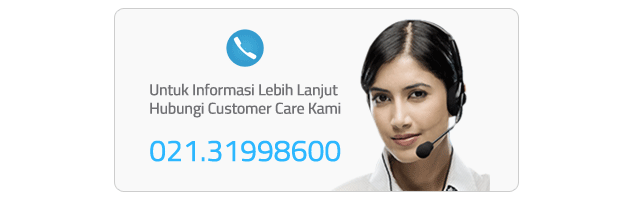
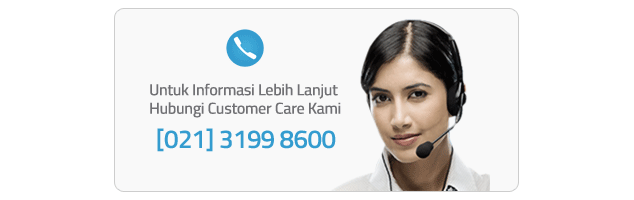
frontpage 85%

Changed region(s): [[0.2098, 0.63, 0.5394, 0.81]]

diff --git a/addons/shared_addons/modules/products/js/product_form.js b/addons/shared_addons/modules/products/js/product_form.js
@@ -38,7 +38,7 @@ $(function () {
 function process_attch(obj){
 	var formData = new FormData($('#product-form')[0]);
 	
-	$inp_elm = $(obj).parent();
+	$inp_elm = $(obj).parent('.input');
 	
 	$.ajax({
 		type: 'POST',

diff --git a/addons/shared_addons/modules/products/views/admin/product_form.php b/addons/shared_addons/modules/products/views/admin/product_form.php
@@ -109,13 +109,13 @@
 								<li>
 									<label for="poster">Upload Poster</label>
 									<br/>
-									<div id="img-poster" style="width:100%;">
+									<div id="img-poster" style="width:100%; margin:10px 0;">
 										<?php if($poster != NULL){ ?>
 											<img style="width:300px;" src="<?php echo Files::$path . $poster['filename'];?>" title="<?php echo $poster['name']; ?>" />
 										<?php } ?>
 									</div>
 									<br/>
-									<div class="input" style="border:1px solid #EEE; border-radius:5px; margin-top:20px;">
+									<div class="input" style="border:1px solid #EEE; border-radius:5px;">
 										<div class="msg-ajax"></div>
 										<?php echo form_upload('poster','','id="poster" style="margin:10px 5px 10px 10px;"'); ?> &nbsp; 
 										<a onclick="process_attch(this);" class="button" style="padding:5px 10px 4px 10px;">Upload</a>
@@ -129,16 +129,15 @@
 										<?php echo form_upload('attch','','id="attch" style="margin:10px 5px 10px 10px;"'); ?> &nbsp; 
 										<?php echo form_input('attchname', '', 'id="attchname" placeholder="File Rename" style="margin:10px 10px 10px 5px;"'); ?> &nbsp;
 										
-										<div class="input small-side" style="margin:20px 10px 10px 10px;">
-											<label for="attchdisptype">Attachment Display</label><br>
+										<div class="input small-side clearfix" style="margin:10px;">
+											<label for="attchdisptype">Display</label><br>
 											<?php echo form_dropdown('attchdisptype', array(
 												'attach' => 'Attach on Page',
 												'link' => 'URL Link',
 												'popup' => 'Pop-up Window',
 											), 'attach') ?>
 										</div>
-										<br/>
-										<a onclick="process_attch(this);" class="button" style="padding:5px 10px 4px 10px;">Upload</a>
+										<a onclick="process_attch(this);" class="button" style="margin:10px; padding:5px 10px 4px 10px;">Upload</a>
 									</div>
 									
 									<div id="attch-files" style="margin:20px 0;">

diff --git a/addons/shared_addons/modules/products/controllers/admin.php b/addons/shared_addons/modules/products/controllers/admin.php
@@ -257,22 +257,27 @@ class Admin extends Admin_Controller {
 		
 		//Get products files json data
 		$files_data = $this->parse_files_json($pid, true);
-		
-		if($prod_data['poster_id'] != ''){
-			Files::delete_file($prod_data['poster_id']);
-		}
+
 			
 		if($input_name == 'poster'){
 			$result = Files::upload($files_data['folder'], $prod_data['slug'], 'poster', 1920, false, true);
 			
-			$upload_data = $this->parse_file_data($result['data']);
-			foreach($upload_data as $key=>$val){
-				$files_data['poster'][$key] = $val;
-			}
+			if($result['status']){
+				if($prod_data['poster_id'] != ''){
+					Files::delete_file($prod_data['poster_id']);
+				}
+				
+				$upload_data = $this->parse_file_data($result['data']);
+				foreach($upload_data as $key=>$val){
+					$files_data['poster'][$key] = $val;
+				}
+				
+				$this->products_m->update($prod_data['id'], array('files'=>json_encode($files_data)));
 			
-			$this->products_m->update($prod_data['id'], array('files'=>json_encode($files_data)));
-		
-			$respond['message'] = 'Poster has been uploaded';
+				$respond['message'] = 'Poster has been uploaded';
+			}else{
+				$respond['message'] = strip_tags($result['message']);
+			}
 		}else{
 			
 			if(isset($files_data['attch'])){
@@ -287,7 +292,9 @@ class Admin extends Admin_Controller {
 			if($rename == ''){
 				$rename = 'attachment-' . ($stored_attch+1);
 			}
+			
 			$result = Files::upload($files_data['folder'], $rename, $input_name);
+
 			
 			
 			//If upload success, insert metadata into db
@@ -301,7 +308,6 @@ class Admin extends Admin_Controller {
 				}
 				
 				$this->products_m->update($prod_data['id'], array('files'=>json_encode($files_data)));
-				
 				
 				
 				//append list item

diff --git a/addons/shared_addons/themes/innovate/views/modules/products/products.php b/addons/shared_addons/themes/innovate/views/modules/products/products.php
@@ -47,6 +47,12 @@
 								<div id="<?php echo $pack['data']->slug; ?>" class="pack-container clearfix">
 									<div class="data left">
 										<?php echo $pack['data']->body; ?>
+										<div id="cs-support" style="color:#007DC3; text-align:center; border:1px solid #CCC; border-radius:5px; padding:10px 0;">
+											<img alt="Customer care" src="{{theme:image_path}}cs.png" style="width:64px;"/>
+											<p style="margin:10px 0; padding:0;">Untuk Informasi Lebih Lanjut<br/>
+											Hubungi Customer Care Kami</p>
+											<h3 style="padding:0;">[021] 3199 8600</h3>
+										</div>
 									</div>
 									<div class="packs right clearfix">
 										<?php foreach($pack['pack'] as $p){ ?>
